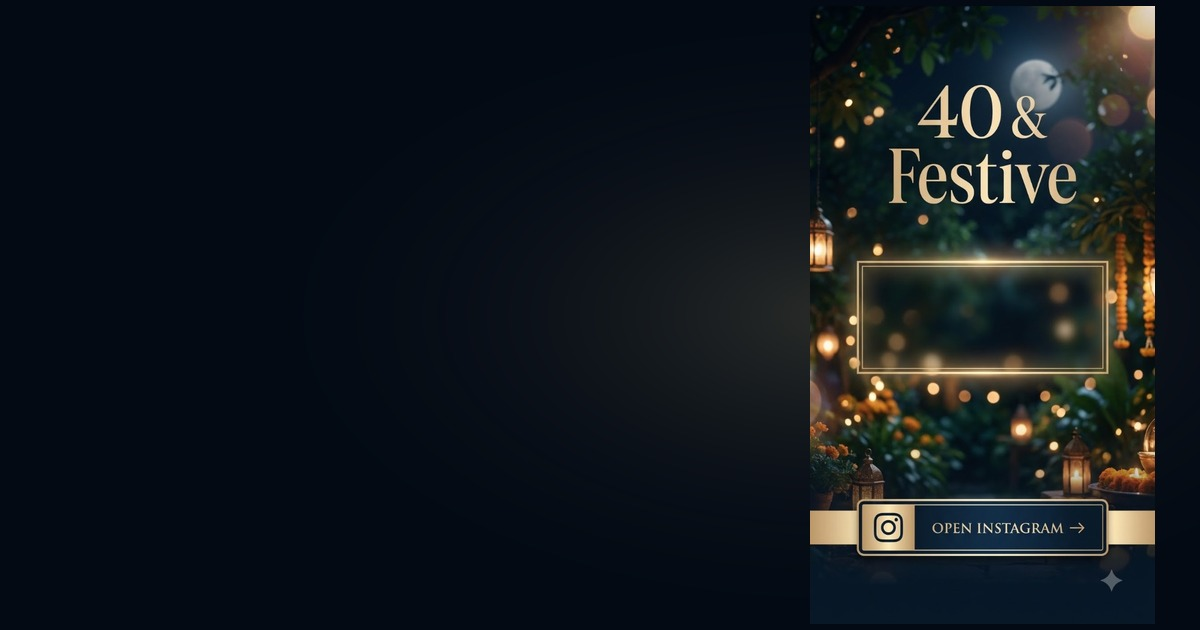
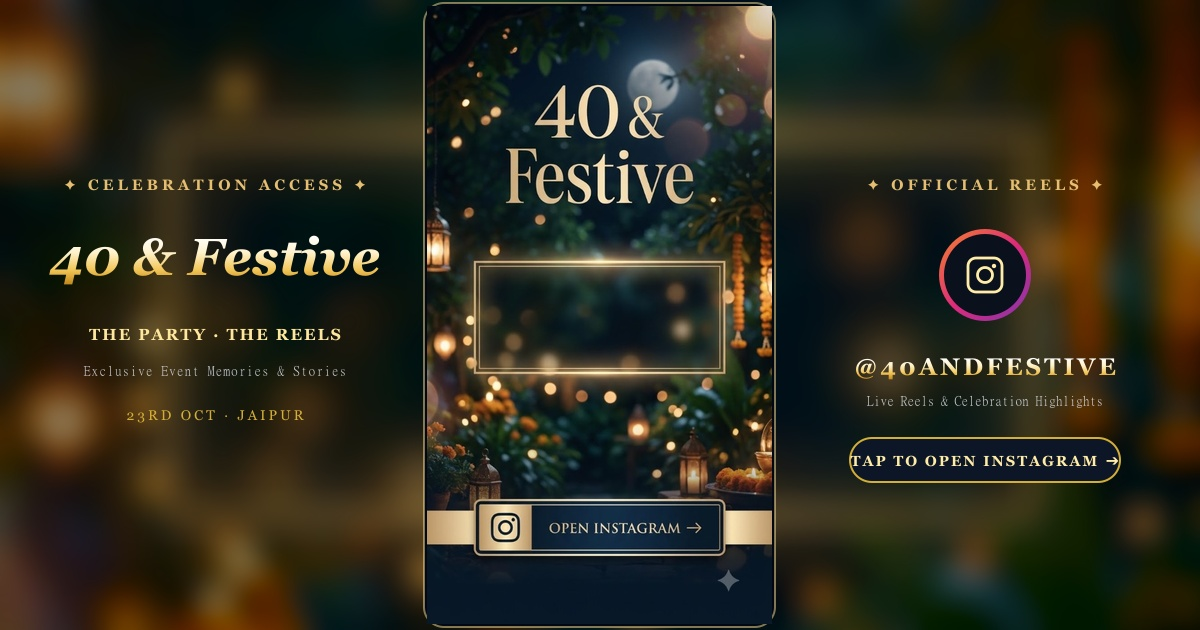
fix(og): fix WhatsApp preview image layout, eliminate black void, and center festive garden card

diff --git a/src/app/insta/page.tsx b/src/app/insta/page.tsx
@@ -27,7 +27,7 @@ export async function generateMetadata({ searchParams }: Props) {
     ? `${individualName}, Follow @40andfestive on Instagram`
     : "@40andfestive — Official Instagram Celebration"
   const description = "Arpit's 40th & Diwali Bash • Tap to connect directly with us on Instagram"
-  const ogImageUrl = "https://khandelwalinvite.vercel.app/og-insta.jpg?v=4"
+  const ogImageUrl = "https://khandelwalinvite.vercel.app/og-insta.jpg?v=6"
 
   return {
     metadataBase: new URL('https://khandelwalinvite.vercel.app'),

diff --git a/src/app/i/[code]/page.tsx b/src/app/i/[code]/page.tsx
@@ -76,7 +76,7 @@ export async function generateMetadata({ params, searchParams }: Props) {
       ? `Dear ${individualName} • @40andfestive`
       : "@40andfestive — 40 & Festive"
     description = "Follow us on Instagram • Tap to open"
-    ogImageUrl = "https://khandelwalinvite.vercel.app/og-insta.jpg?v=4"
+    ogImageUrl = "https://khandelwalinvite.vercel.app/og-insta.jpg?v=6"
   } else if (isSaveTheDate) {
     if (isDiwali) {
       title = "Grand Diwali Party Celebration"
